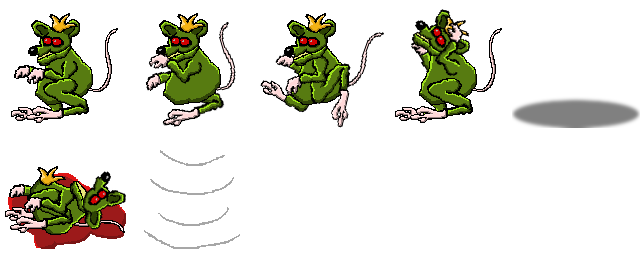
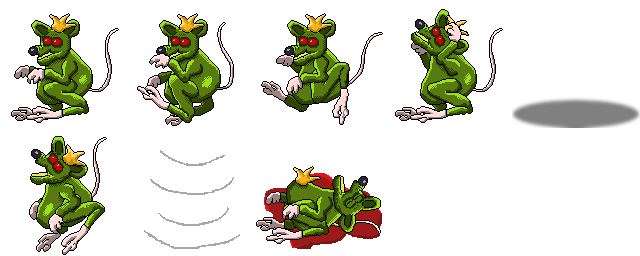
ADD Better graphics for Rat King
+ "agonizing" graphics

diff --git a/src/KingRatEntity.cpp b/src/KingRatEntity.cpp
@@ -21,10 +21,14 @@ KingRatEntity::KingRatEntity(float x, float y)
   hpDisplay = hp;
   hpMax = KING_RAT_HP;
   meleeDamages = KING_RAT_DAMAGES;
+  imagesProLine = 5;
 
   type = ENTITY_ENNEMY_BOSS;
   bloodColor = bloodRed;
   shadowFrame = 4;
+  dyingFrame = 5;
+  deathFrame = FRAME_CORPSE_KING_RAT;
+  dyingSound = SOUND_KING_RAT_DIE;
   frame = 0;
   if (game().getPlayerPosition().x > x) sprite.setScale(-1.0f, 1.0f);
   sprite.setOrigin(64.0f, 64.0f);
@@ -46,6 +50,29 @@ void KingRatEntity::animate(float delay)
   if (age <= 0.0f)
   {
     age += delay;
+    return;
+  }
+
+ if (isAgonising)
+  {
+    if (h < -0.01f)
+    {
+      isDying = true;
+      SpriteEntity* corpse;
+      corpse = new SpriteEntity(ImageManager::getImageManager()->getImage(IMAGE_CORPSES_BIG), x, y + 48, 128, 128);
+      corpse->setFrame(deathFrame - FRAME_CORPSE_KING_RAT);
+
+      corpse->setZ(OFFSET_Y);
+      corpse->setType(ENTITY_CORPSE);
+      if (dyingSound != SOUND_NONE) SoundManager::getSoundManager()->playSound(dyingSound);
+    }
+    else
+    {
+      frame = dyingFrame;
+      hVelocity -= 700.0f * delay;
+      h += hVelocity * delay;
+    }
+
     return;
   }
 
@@ -223,7 +250,7 @@ bool KingRatEntity::hurt(int damages, enumShotType hurtingType, int level)
   if (state == 6)
     newDamages = damages / 4;
 
-   return BaseCreatureEntity::hurt(newDamages, hurtingType, level);
+   return EnnemyEntity::hurt(newDamages, hurtingType, level);
 }
 
 void KingRatEntity::calculateBB()
@@ -276,19 +303,8 @@ void KingRatEntity::collideMapBottom()
   afterWallCollide();
 }
 
-
-void KingRatEntity::dying()
+void KingRatEntity::drop()
 {
-  isDying = true;
-  SpriteEntity* deadRat = new SpriteEntity(ImageManager::getImageManager()->getImage(IMAGE_CORPSES_BIG), x, y, 128, 128);
-  deadRat->setZ(OFFSET_Y);
-  deadRat->setFrame(FRAME_CORPSE_KING_RAT - FRAME_CORPSE_KING_RAT);
-  deadRat->setType(ENTITY_CORPSE);
-
-  for (int i = 0; i < 10; i++) game().generateBlood(x, y, bloodColor);
-
-  SoundManager::getSoundManager()->playSound(SOUND_KING_RAT_DIE);
-
   ItemEntity* newItem = new ItemEntity(itemBossHeart, x, y);
   newItem->setVelocity(Vector2D(100.0f + rand()% 250));
   newItem->setViscosity(0.96f);

diff --git a/src/KingRatEntity.h b/src/KingRatEntity.h
@@ -23,7 +23,7 @@ class KingRatEntity : public EnnemyEntity
     void generateGreenRats();
 
 	  virtual void collideWithEnnemy(GameEntity* collidingEntity);
-	  virtual void dying();
+	  virtual void drop();
   private:
     float timer;
     float berserkDelay;
